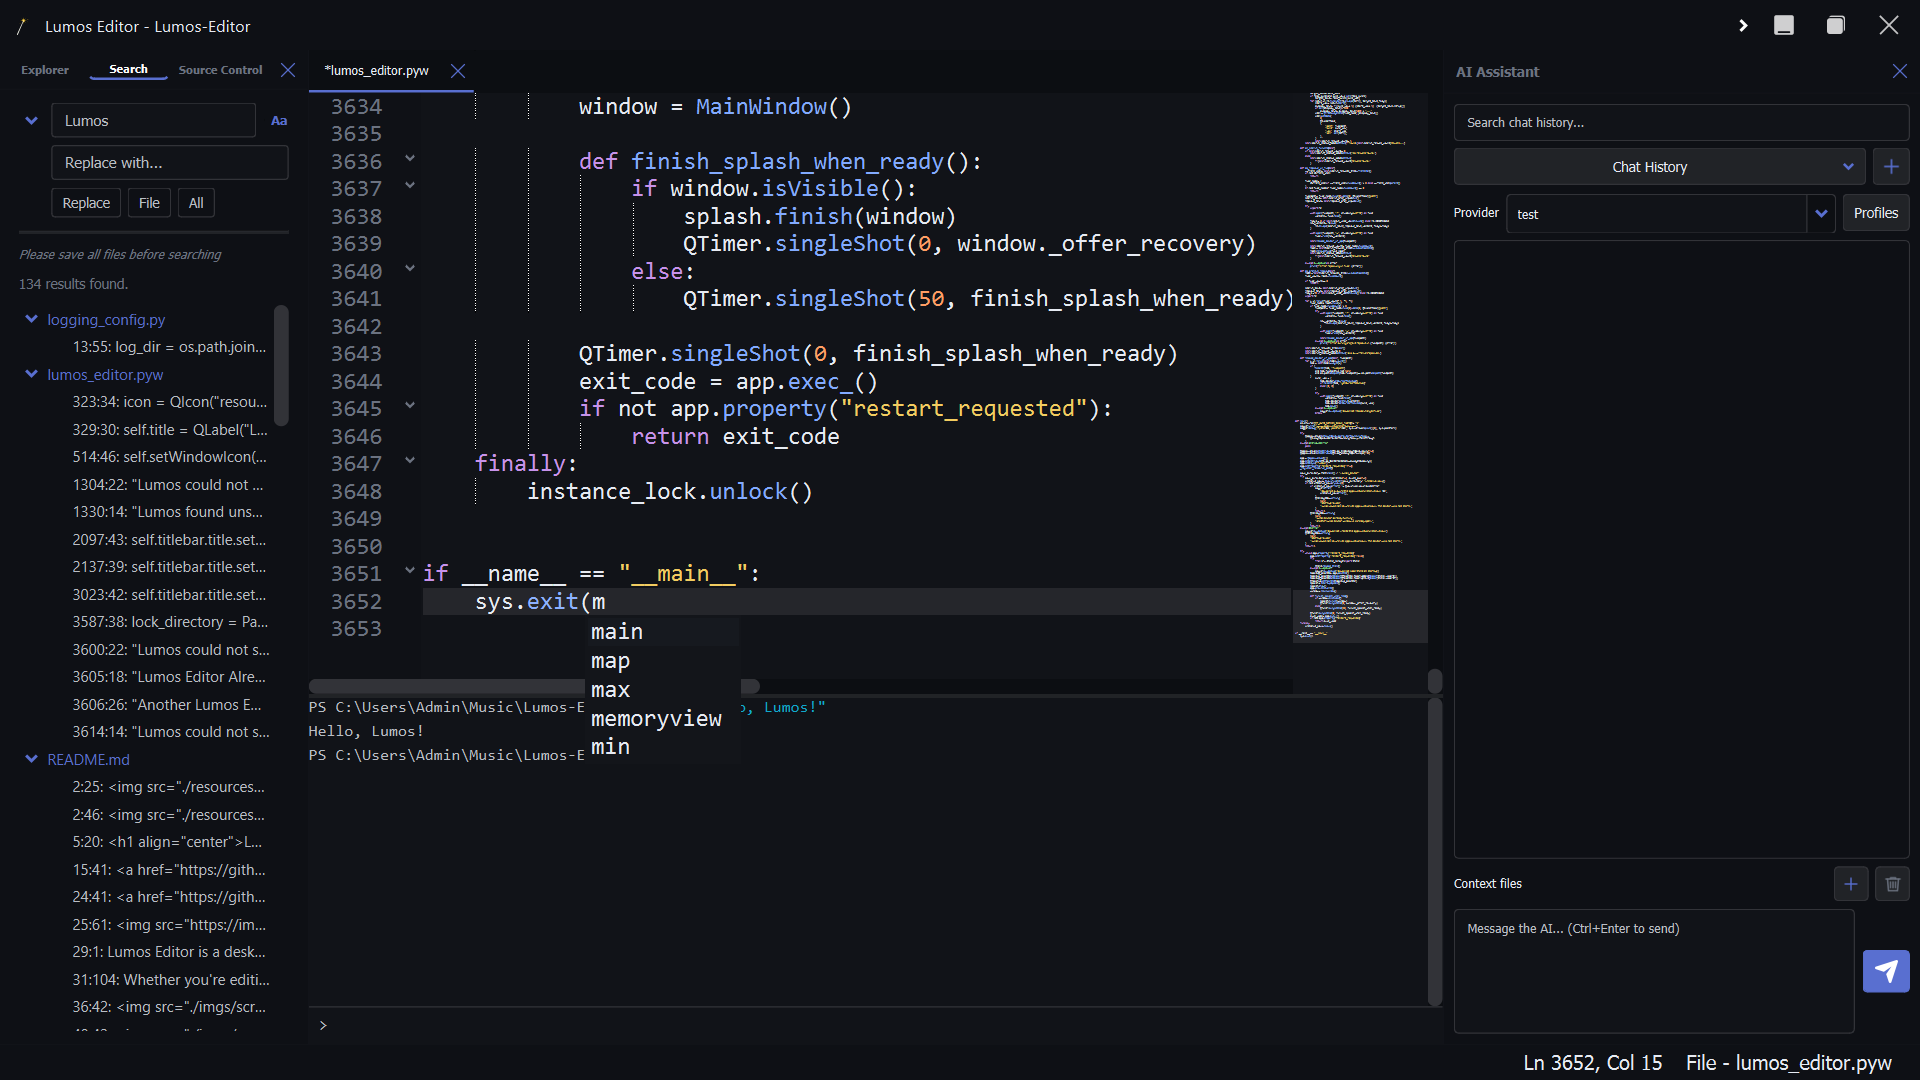
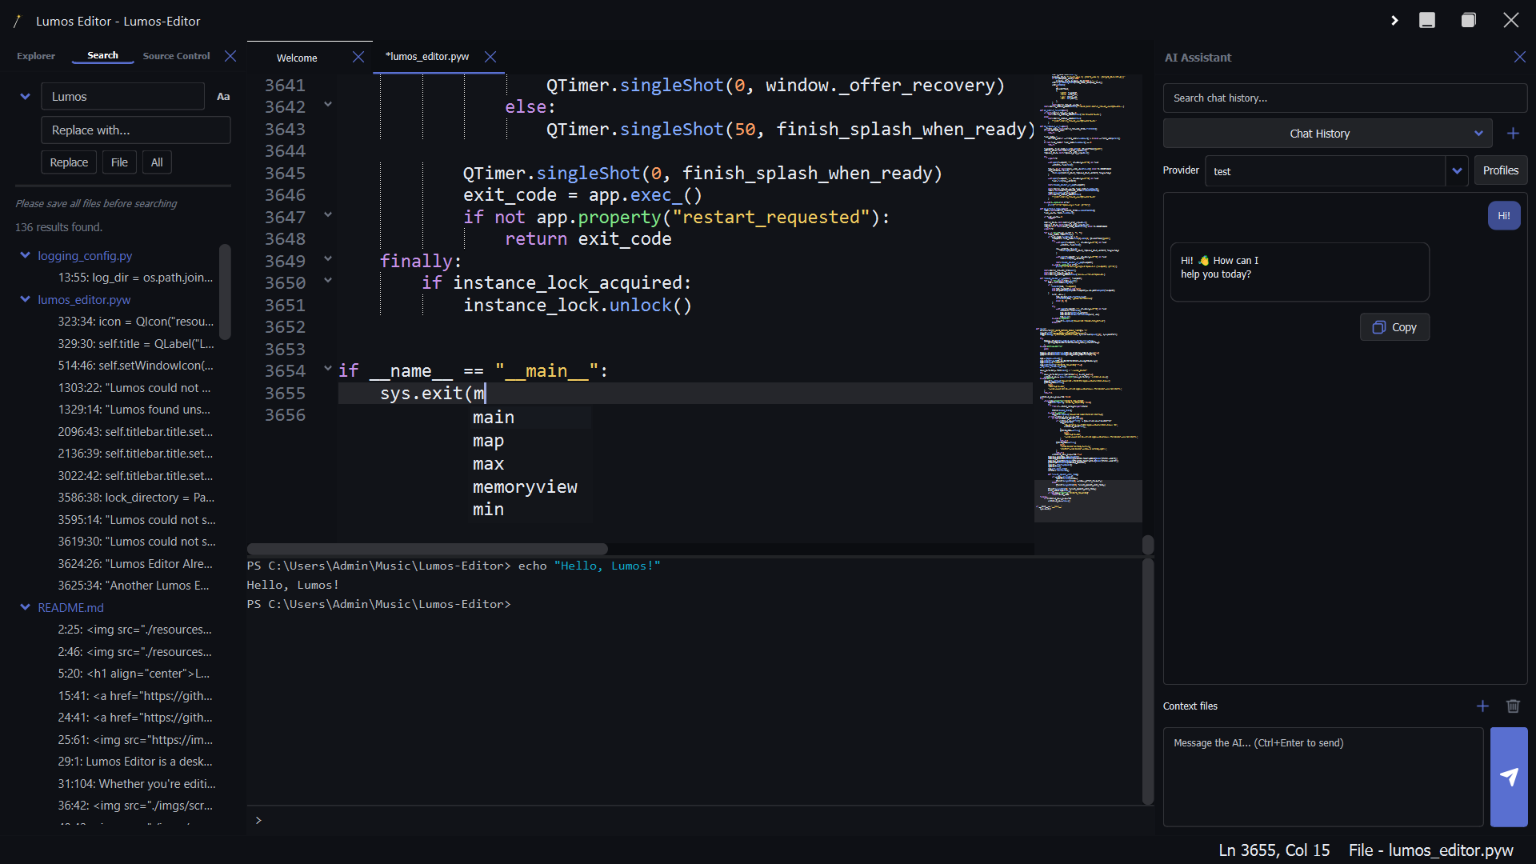
fix(ai-profile): add duplicate name check for AI profiles

diff --git a/src/ai_chat.py b/src/ai_chat.py
@@ -397,6 +397,18 @@ class AIProfileDialog(ThemedBaseDialog):
             )
             return
         profile_id = self.profile_combo.currentData() or uuid.uuid4().hex
+        normalized_name = name.casefold()
+        if any(
+            profile.get("id") != profile_id
+            and profile.get("name", "").strip().casefold() == normalized_name
+            for profile in self.profiles
+        ):
+            QMessageBox.warning(
+                self,
+                "Duplicate AI Profile Name",
+                "A profile with this name already exists. Choose a different name.",
+            )
+            return
         profile = {
             "id": profile_id,
             "name": name,
